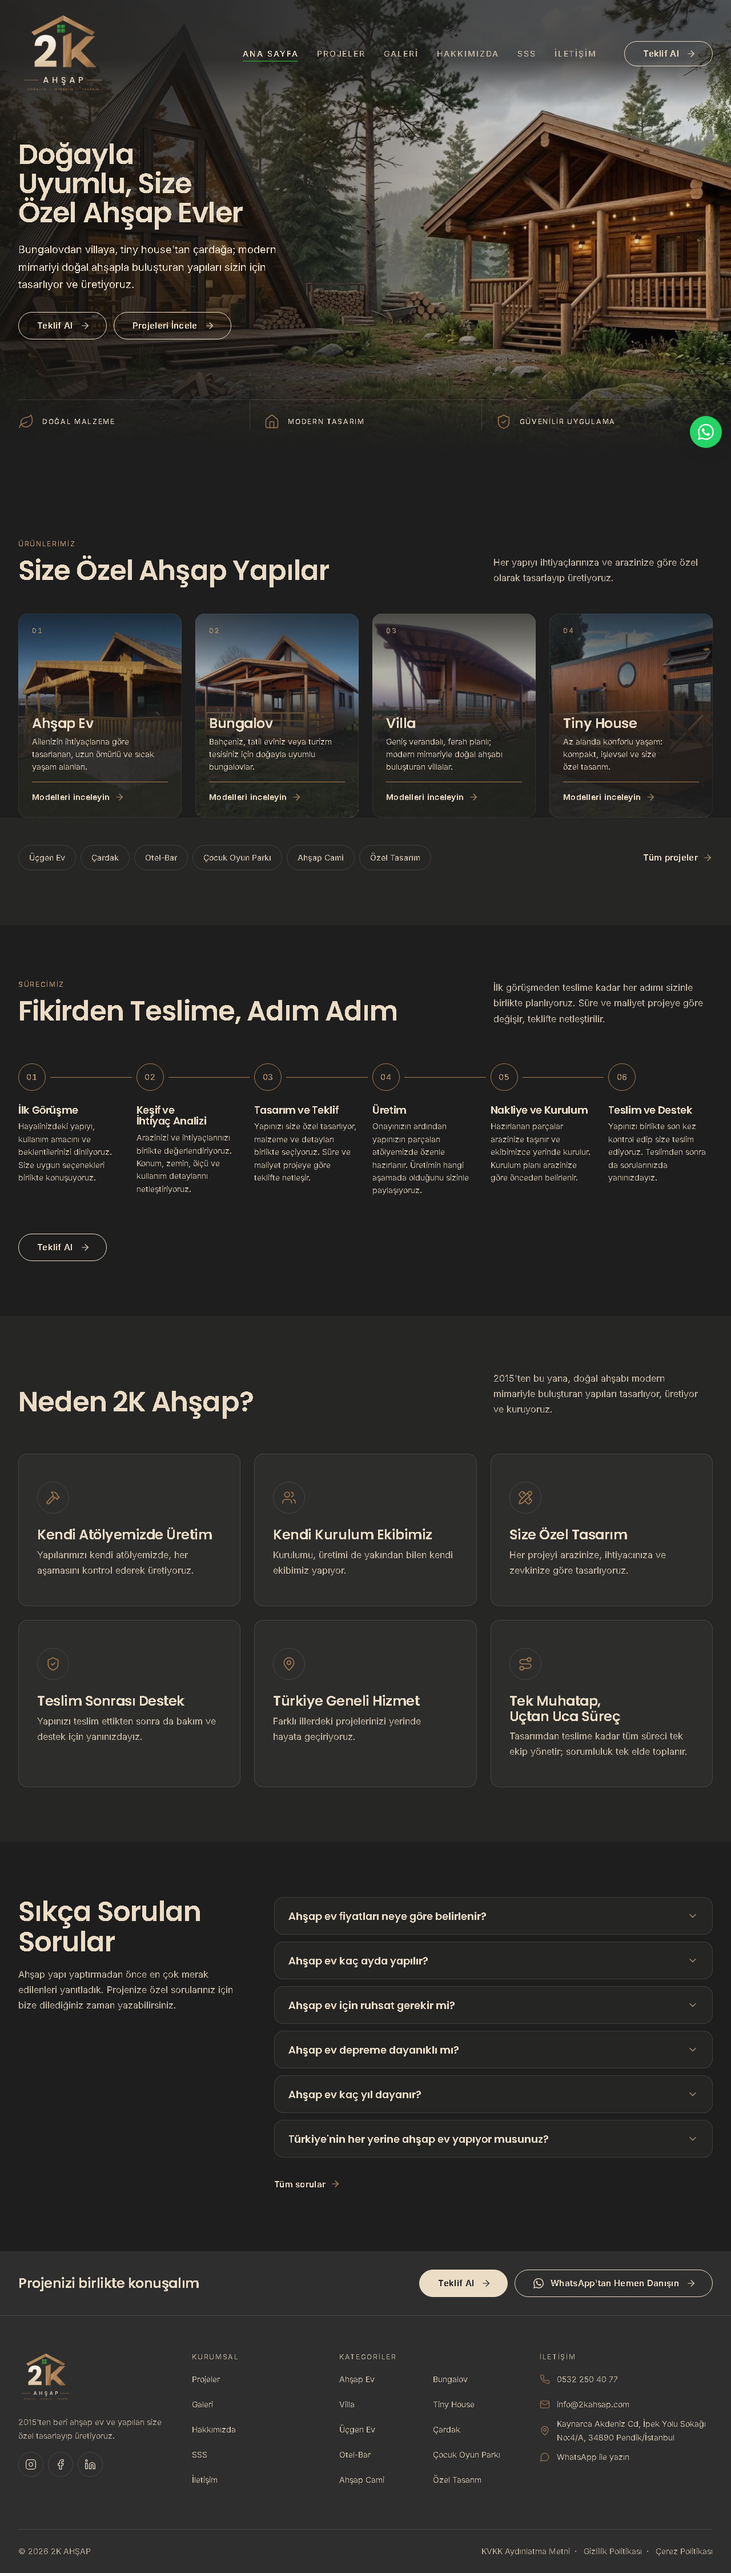
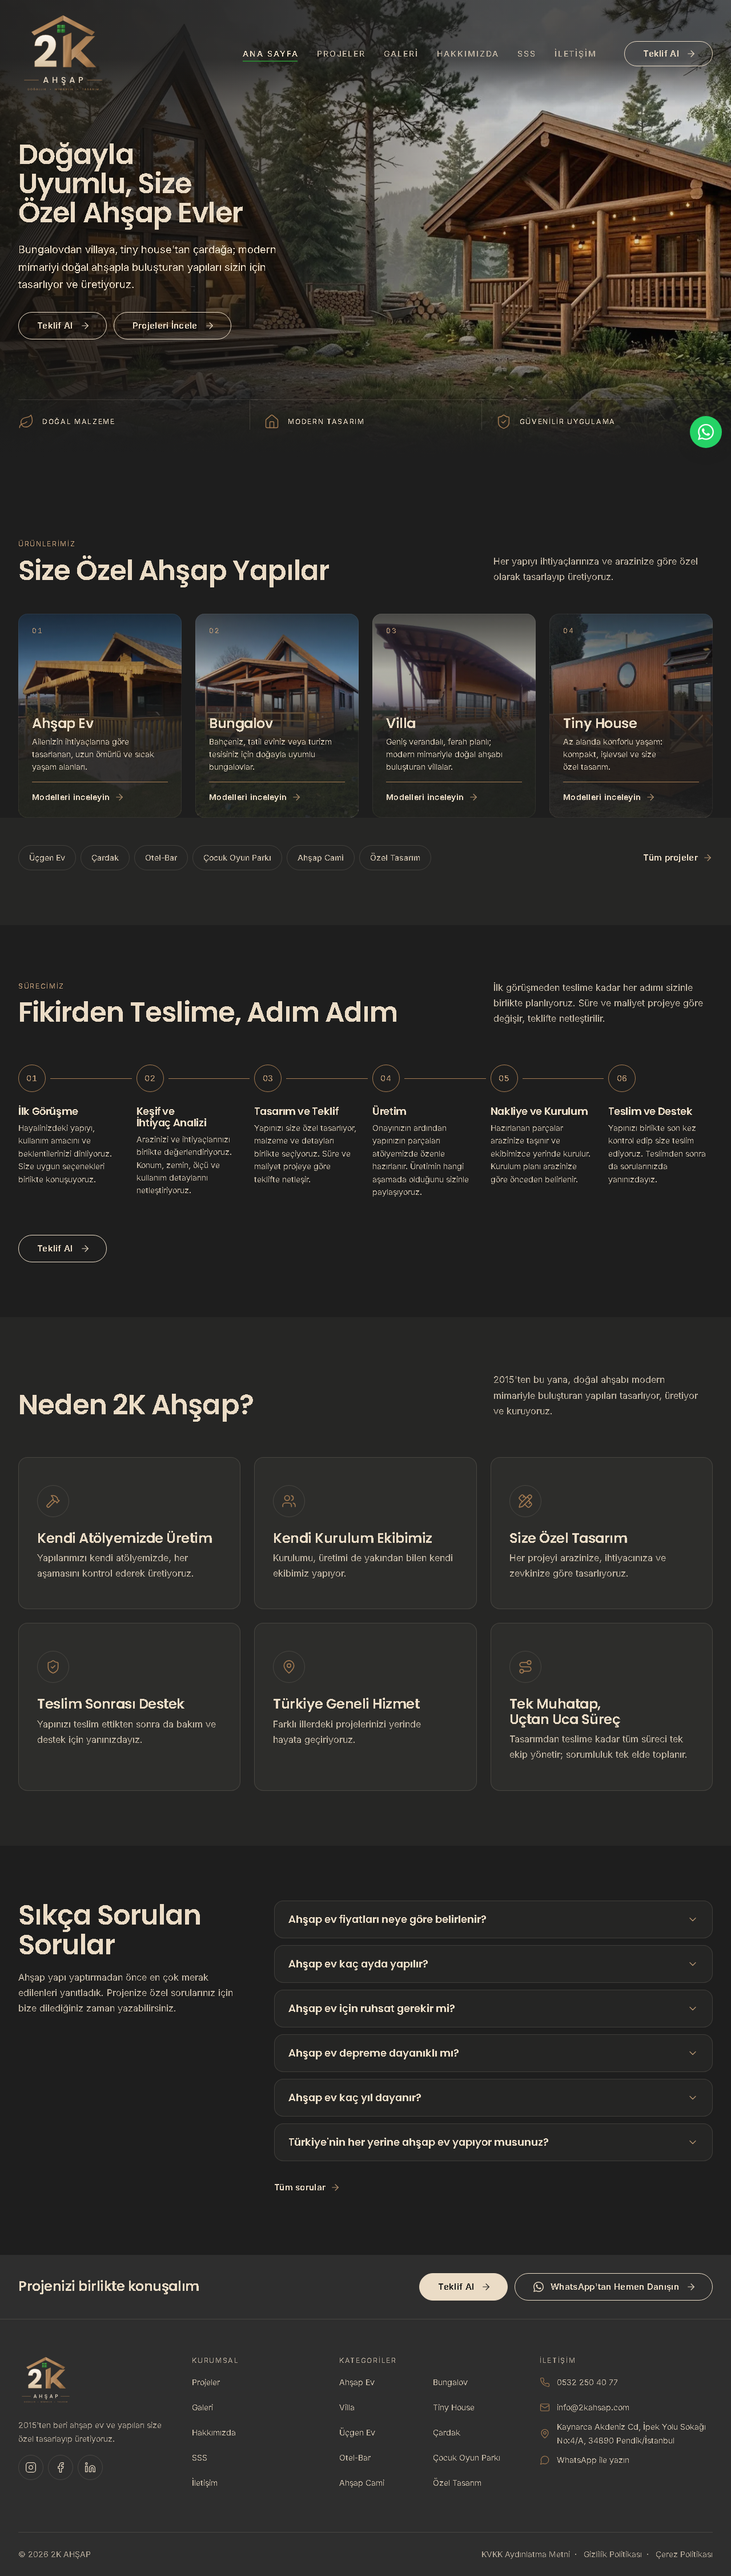
Hakkımızda alıntısını banda al, hikâye fotoğrafını değiştir, başlık açıklamalarını taban çizgisine hizala
- Büyük alıntı tam genişlikte ara yumuşak tonlu bantta, ortalı ve dengeli satırlarla (müşteri seçimi b)
- Hikâye fotoğrafı kemerli pod bungalovun döşenmiş iç mekânı; 4:5 kadraj, öndeki naylonlu minderler dışarıda
- Başlık + açıklama düzeninde (≥ 1024px) açıklamanın son satırı başlığın taban çizgisinde: ana sayfa
  Ürünlerimiz, Sürecimiz, Neden 2K Ahşap?; Hakkımızda açılış bandı
- Ana sayfa ve Hakkımızda görsel referansları yenilendi; önce/sonra görselleri docs/hakkimizda/duzeltme/

diff --git a/docs/hakkimizda/duzeltme/README.md b/docs/hakkimizda/duzeltme/README.md
@@ -1,0 +1,24 @@
+# Hakkımızda ve ana sayfa düzeltmesi (15 Ekim 2026, müşteri onaylı)
+
+## Seçimler
+
+- **Büyük alıntı: b.** Tam genişlikte ara yumuşak tonlu bant (`--color-zemin-ara-yumusak`), alıntı ortada,
+  satırlar dengeli kırılır. Bandın üstünde, içinde ve altında birer ritim (mobil 64px, ≥ 768px 96px).
+  a seçeneği (ortalı alıntı, iki yanında ahşap çizgi) yalnızca önizleme olarak duruyor: `*-sonra-a.png`.
+- **Hikâye fotoğrafı: `kemerli-pod-bungalov-02`.** Düz ve simetrik çekilmiş, döşenmiş iç mekân. 4:5 kadraj,
+  fotoğrafın üst %69'u (1,36 kat yakınlaştırma, üst ortadan): avize, kemerli pencere ve ışık kadrajda; öndeki
+  kanepenin naylonlu minderleri dışarıda (`hikaye-foto-{375,1280}-son.png`). Yan sandalyelerin üst kısmı sol ve
+  sağ alt köşede görünür; onları da çıkarmak pencerenin alt kısmını keserdi.
+  Diğer adaylar: `a-frame-bungalov-09` (taş şömine; önünde ufak eşyalar, kirişler geniş açıdan eğik),
+  `kiremit-catili-ahsap-ev-05` (dış cephe veranda; yatay, 4:5'e kırpınca veranda yarım kalıyor).
+- **Başlık + açıklama hizası (≥ 1024px):** açıklamanın son satırı başlığın taban çizgisinde
+  (`align-items: last baseline`, desteklemeyen tarayıcıda kutuların altı hizalı kalır). Öncesinde kutuların altı
+  hizalıydı, taban çizgileri 2,6px farklıydı. Uygulanan bölümler: ana sayfa Ürünlerimiz, Sürecimiz,
+  Neden 2K Ahşap?; Hakkımızda açılış bandı, Neden 2K Ahşap?, Sürecimiz. Mobilde değişiklik yok.
+
+## Görseller
+
+- `hakkimizda-hikaye-alinti-{375,1280}-once.png` → `-sonra-a.png`, `-sonra-b.png` (seçenekler) → `-son.png` (uygulanan)
+- `hikaye-foto-{375,1280}-son.png`: son fotoğraf kadrajı
+- `ana-sayfa-baslik-{375,1280}-{once,sonra}.png`, `ana-sayfa-surecimiz-…`, `ana-sayfa-neden-…`,
+  `hakkimizda-acilis-baslik-1280-{once,sonra}.png`
